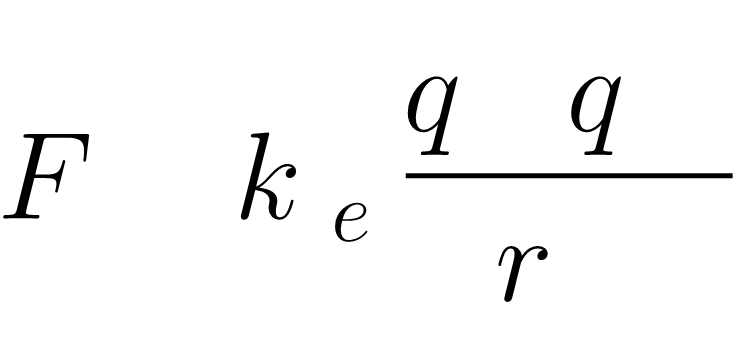
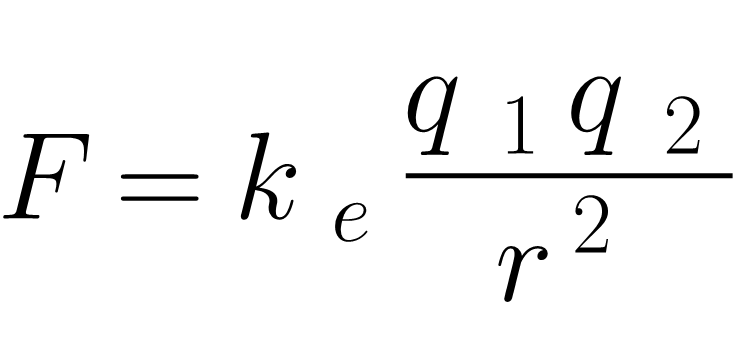
Got new glyphs working

diff --git a/MathematicsTypesetting.Fonts/FontLoader.cs b/MathematicsTypesetting.Fonts/FontLoader.cs
@@ -121,6 +121,17 @@ namespace MathematicsTypesetting.Fonts
 
                     pathCommands.Add(pathCommand);
                 }
+                else if (a[n] == "V")
+                {
+                    var pathCommand = new PathCommand();
+
+                    pathCommand.Type = PathCommandType.VerticalLineTo;
+                    pathCommand.Arguments = new List<float>() { float.Parse(a[n + 1]) };
+
+                    n += 2;
+
+                    pathCommands.Add(pathCommand);
+                }
                 else if (a[n] == "Z")
                 {
                     var pathCommand = new PathCommand();
@@ -182,6 +193,12 @@ namespace MathematicsTypesetting.Fonts
                     path.AddLine(new PointF(cursorX, cursorY), new PointF(c.Arguments[0], cursorY));
 
                     cursorX = c.Arguments[0];
+                }
+                if (c.Type == PathCommandType.VerticalLineTo)
+                {
+                    path.AddLine(new PointF(cursorX, cursorY), new PointF(cursorX, c.Arguments[0]));
+
+                    cursorY = c.Arguments[0];
                 }
                 if (c.Type == PathCommandType.ClosePath)
                 {

diff --git a/MathematicsTypesetting.Fonts/PathCommand.cs b/MathematicsTypesetting.Fonts/PathCommand.cs
@@ -13,7 +13,8 @@ namespace MathematicsTypesetting.Fonts
         ClosePath = 3,
         LineTo = 4,
         HorizontalLineTo = 5,
-        BezierSplineTo = 6
+        BezierSplineTo = 6,
+        VerticalLineTo = 7
     }
 
     public class PathCommand
